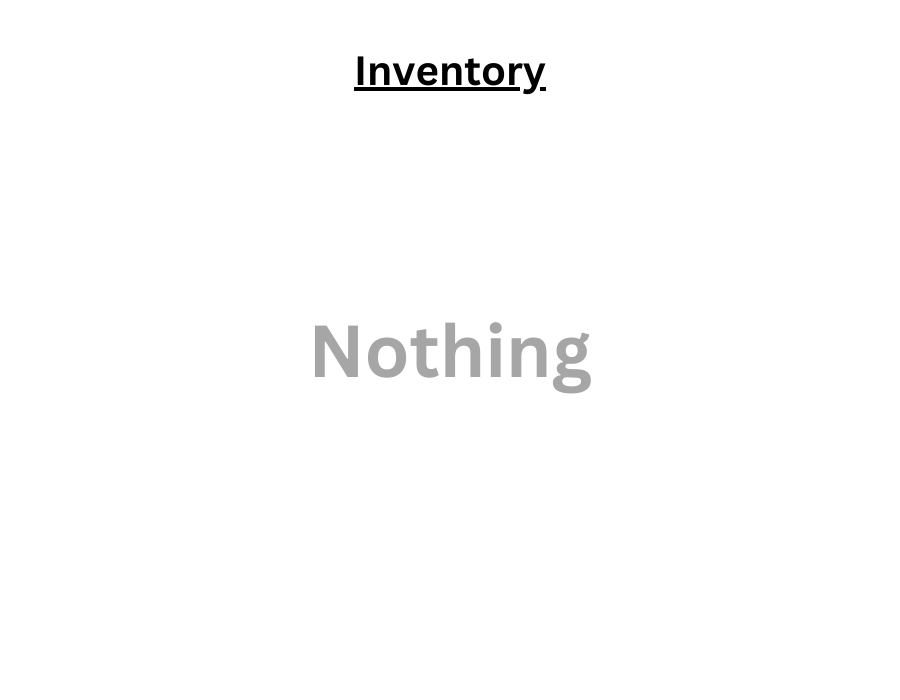
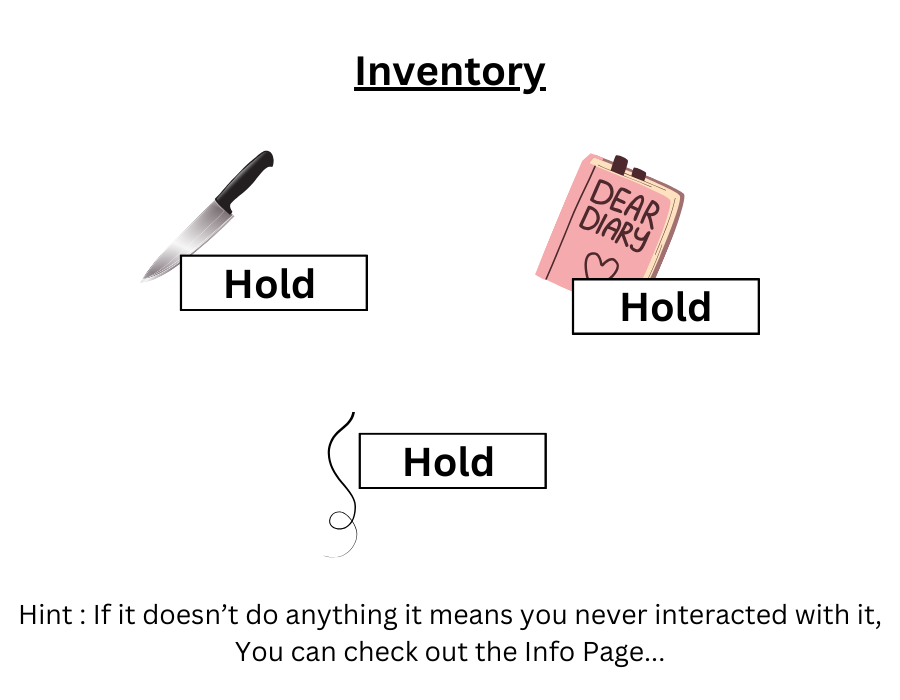
created more buttons...

Changed region(s): [[0.1556, 0.21, 0.8711, 0.57], [0.0, 0.87, 0.9956, 0.96], [0.3422, 0.6, 0.6222, 0.75]]

diff --git a/src/TESTButtonsPanel.java b/src/TESTButtonsPanel.java
@@ -13,7 +13,8 @@ public class TESTButtonsPanel {
             introduce1, introduce2, introduce3, introduce4,
             talk1, talk2, talk3, talk4,
             interactKnife, interactDiary, interactHair,
-            continueInfo, btnInventory;
+            continueInfo, btnInventory, btnKnife,
+            btnDiary, bthHair;
     private JPanel btnPanel, megumiPage, joGoPage, goJoPage, nikkiPage;
     private TESTPanelClass displayPanel;
     private TESTCardLayoutPanel2 cardLayoutPanel2;
@@ -74,6 +75,10 @@ public class TESTButtonsPanel {
         talk3 = new JButton();
         talk4 = new JButton();
 
+        bthHair = new JButton();
+        btnDiary = new JButton();
+        btnKnife = new JButton();
+
         btnNext = new JButton("Next Panel");
         infoButton = new JButton("InfoPage");
 
@@ -107,6 +112,9 @@ public class TESTButtonsPanel {
         customizeButton(talk2);
         customizeButton(talk3);
         customizeButton(talk4);
+        customizeButton(btnKnife);
+        customizeButton(bthHair);
+        customizeButton(btnDiary);
 
         // Set button size (optional to adjust the button size)
         startButton.setBounds(300, 400, 250, 120);  // Adjust the position and size of the start button
@@ -142,6 +150,10 @@ public class TESTButtonsPanel {
         talk2.setBounds(515,195,250,70);
         talk3.setBounds(515,195,250,70);
         talk4.setBounds(515,195,250,70);
+
+        btnKnife.setBounds(180,230,178,50);
+        btnDiary.setBounds(565,250,178,50);
+        bthHair.setBounds(355,392,178,50);
 
         btnInventory.setBounds(650, 430, 160, 160);
 
@@ -455,6 +467,12 @@ public class TESTButtonsPanel {
             }
         });
 
+        btnInventory.addActionListener(new ActionListener() {
+            @Override
+            public void actionPerformed(ActionEvent e) {
+                cardLayoutPanel2.showCard("Inventory");
+            }
+        });
     }
 
     private void customizeButton(JButton button) {
@@ -582,6 +600,18 @@ public class TESTButtonsPanel {
 
     public JButton getBtnInventory() {
         return btnInventory;
+    }
+
+    public JButton getBthHair() {
+        return bthHair;
+    }
+
+    public JButton getBtnDiary() {
+        return btnDiary;
+    }
+
+    public JButton getBtnKnife() {
+        return btnKnife;
     }
 }
 

diff --git a/src/TESTCardLayoutPanel2.java b/src/TESTCardLayoutPanel2.java
@@ -65,6 +65,11 @@ public class TESTCardLayoutPanel2 extends JFrame{
 
         calendarPanel.calendarPage.add(buttonsPanel.getBtnSuspects());
         calendarPanel.calendarPage.add(buttonsPanel.getBtnInventory());
+
+        inventoryPage.add(buttonsPanel.getBthHair());
+        inventoryPage.add(buttonsPanel.getBtnDiary());
+        inventoryPage.add(buttonsPanel.getBtnKnife());
+
         suspectPage.add(buttonsPanel.getBtnReady());
 
         suspectPage.add(buttonsPanel.geteGojo());
